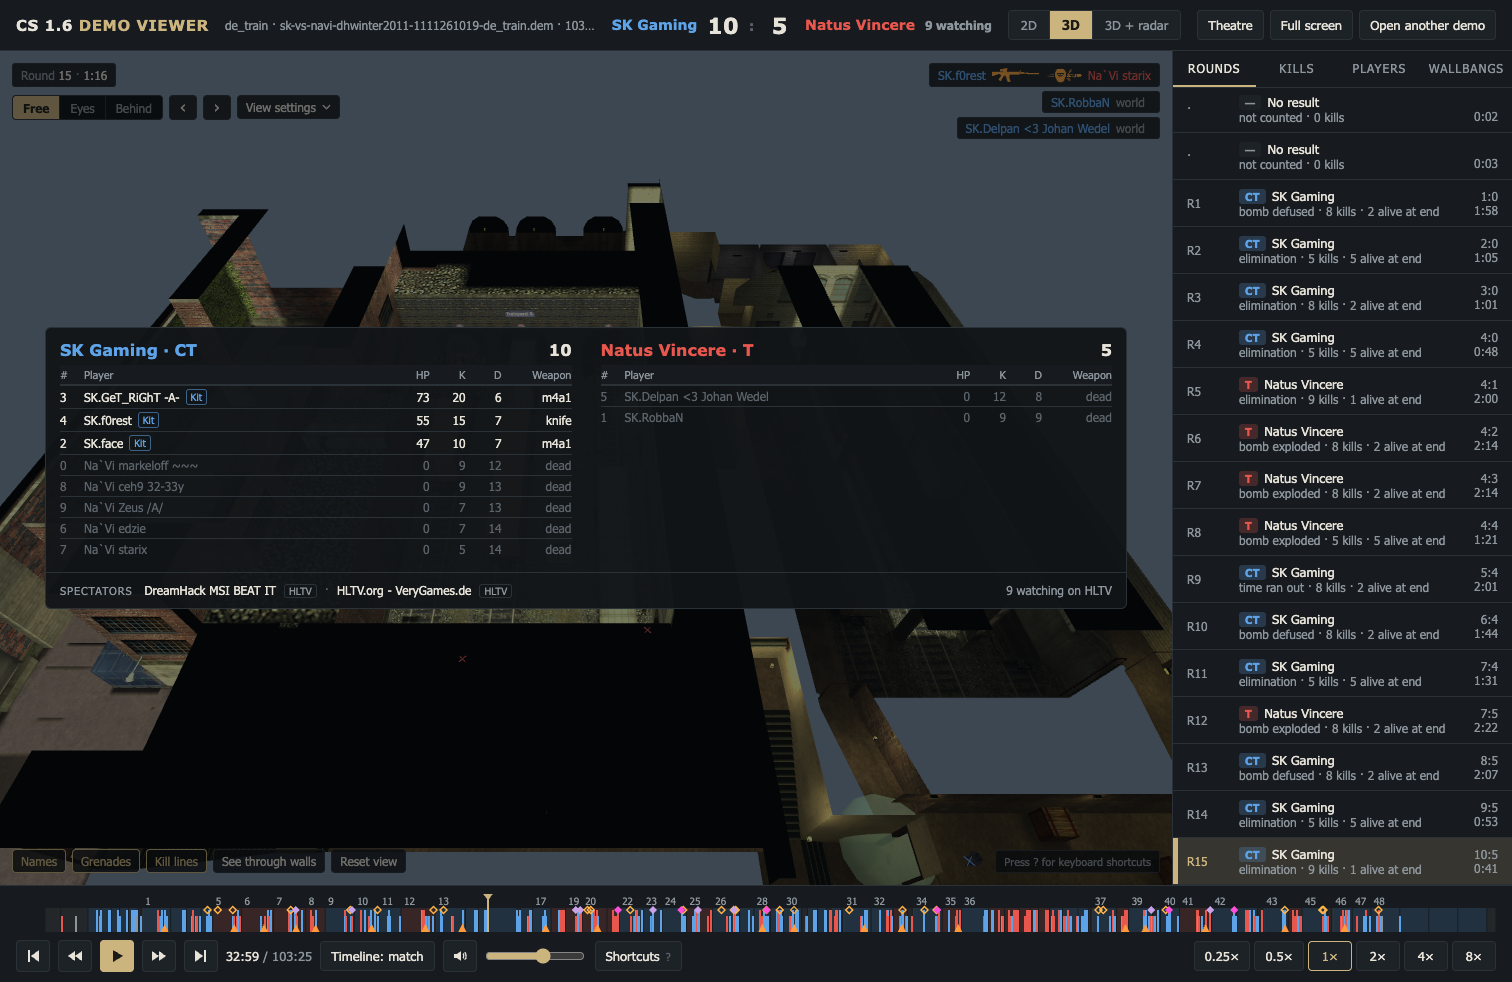
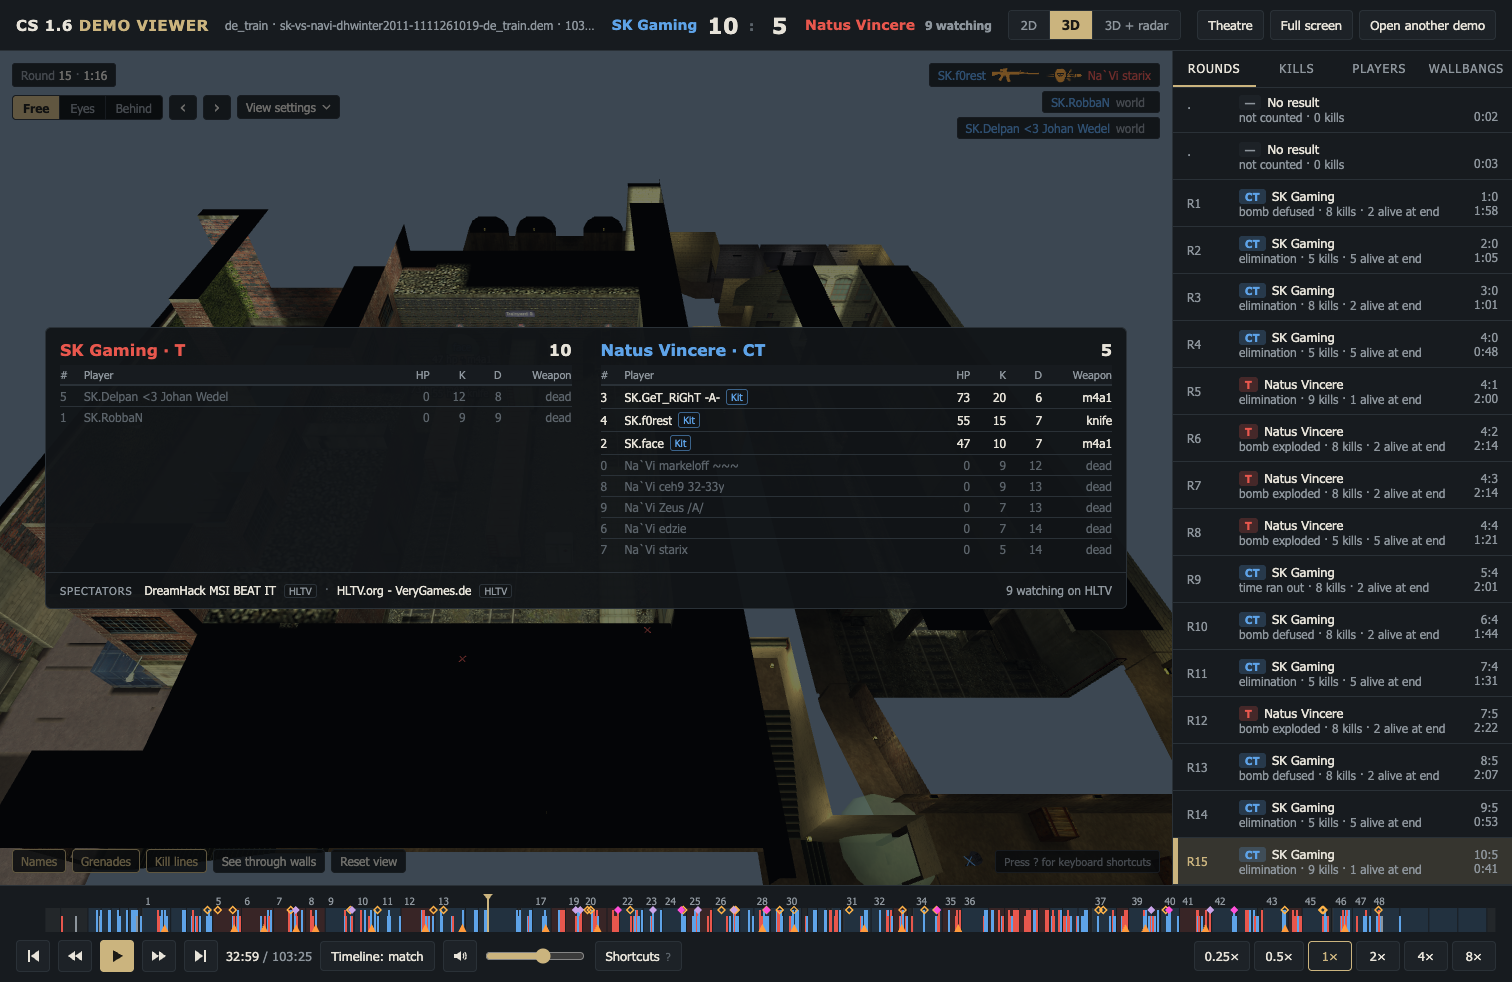
screenshots: retake 4, the side headings by the team mostly on each

diff --git a/README.md b/README.md
@@ -7,4 +7,4 @@ From the pull request's build, headless Chromium with SwiftShader, a 1512x982 wi
 - `1-gp-tourney-tab-scoreboard-*`: the GP Tourney POV of Team Guardians vs Lanka Dahan, Mirage, 25 Oct 2026 (`forgotten-de_mirage-2026.dem`), **POV mode** on, R5 1:21: the Tab scoreboard split by side, BAJRANG on T and Guardians on CT, 14 each; no HP column, since this server sends no teammate's health; the players his game didn't receive with an empty gun cell, dead ones from the kill feed; the names as UTF-8 ("AwP3rtuniTY ︻?", "D Ξ Λ T H Ｎ Ｏ", "Neon Panda︻芫=="; a letter the font lacks is drawn by a fallback font).
 - `2-gp-tourney-players-tab-*`: the same moment, the Players tab: both teams, the clan tags cut off the names, BAJRANG started T.
 - `3-gp-tourney-rounds-tab-*`: the same, the Rounds tab with **Show warmup, restarts and idle rounds** on: the two rounds before the match ("before the match") and each restart as its own round, then R1 at 2:08; 23 rounds, 7:16 to Guardians.
-- `4-hltv-tab-scoreboard-team-swap-*`: SK vs Na`Vi, Train, DreamHack Winter 2011, 32:59, after R15 is won: in the seconds of the half's team swap, Na`Vi's five are already on CT and show under the CT side, still headed SK Gaming (the team the round has on CT), and SK's Delpan and RobbaN, switched by the server ("world" in the kill feed), under T.
+- `4-hltv-tab-scoreboard-team-swap-*`: SK vs Na`Vi, Train, DreamHack Winter 2011, 32:59, after R15 is won: in the seconds of the half's team swap, each side is headed by the team with most of its people on it (Sujan, 11 Nov 2026): CT reads Natus Vincere with Na`Vi's 5, its five already there, and SK's three still on CT listed under it; T reads SK Gaming with SK's 10, Delpan and RobbaN, switched by the server ("world" in the kill feed). Retaken 11 Nov 2026; the first take had CT headed SK Gaming, the round's team.
